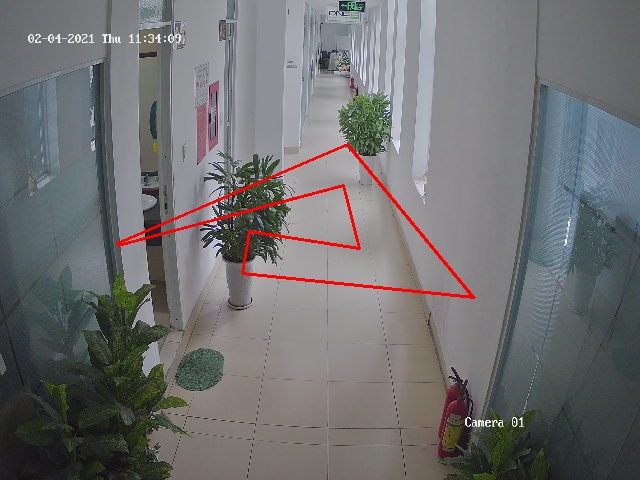
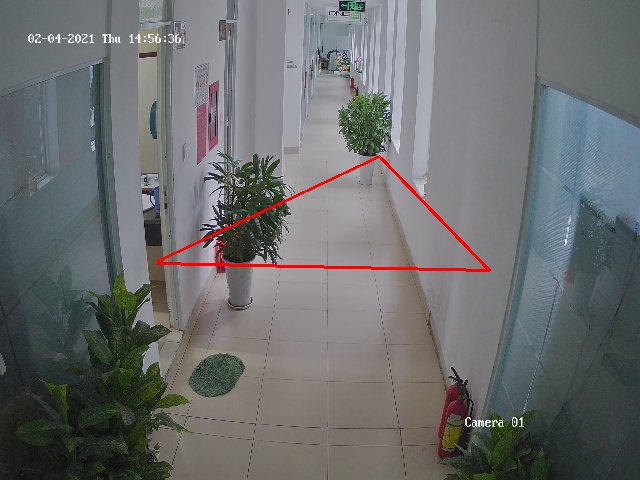
done draw region and draw counting region

diff --git a/draw_region_test.py b/draw_region_test.py
@@ -12,15 +12,38 @@ import cv2
 
 
 # all global variables
-global th, path, light_alarm, sound_alarm, both_alarm, count, height, width, all_point
+global th, \
+    path, \
+    light_alarm, \
+    sound_alarm, \
+    both_alarm, \
+    count, height, \
+    width, \
+    draw_region_points, \
+    default_region_points, \
+    draw_region_flag, \
+    draw_count_flag, \
+    default_counting_points, \
+    draw_counting_points
 
-# config
+# variables
 path = None
 count = 0
 height = 480
 width = 640
-all_point = []
+draw_region_points = []
+extra_pixels = 5  # for default points
+default_region_points = [
+    [(0+extra_pixels, 0+extra_pixels), (width-extra_pixels, 0+extra_pixels)],
+    [(width-extra_pixels, 0+extra_pixels), (width-extra_pixels, height-extra_pixels)],
+    [(width-extra_pixels, height-extra_pixels), (0+extra_pixels, height-extra_pixels)],
+    [(0+extra_pixels, height-extra_pixels), (0+extra_pixels, 0+extra_pixels)]
+]
+draw_region_flag = False
 
+draw_counting_points = []
+default_counting_points = [[(0, int(height/2)), (width, int(height/2))]]
+draw_count_flag = False
 
 class Thread(QtCore.QThread):
     changePixmap = QtCore.pyqtSignal(QtGui.QImage)
@@ -30,16 +53,39 @@ class Thread(QtCore.QThread):
         self._go = None
 
     def run(self):
-        global count, height, width, all_point
+        global count, \
+            height, \
+            width, \
+            draw_region_points, \
+            default_region_points, \
+            draw_region_flag, \
+            default_counting_points, \
+            draw_count_flag, \
+            draw_counting_points
         cap = cv2.VideoCapture(path)
         self._go = True
         while self._go:
             ret, frame = cap.read()
             if ret:
                 frame = cv2.resize(frame, (width, height))
+
+                # condition to draw region
+                if not draw_region_flag:
+                    final_region_points = default_region_points
+                else:
+                    final_region_points = draw_region_points
                 # draw region
-                for i, point in enumerate(all_point):
+                for i, point in enumerate(final_region_points):
                     cv2.line(frame, point[0], point[1], (0, 0, 255), 2)
+
+                # condition to draw counting region
+                if not draw_count_flag:
+                    final_counting_points = default_counting_points
+                else:
+                    final_counting_points = draw_counting_points
+                # draw counting region
+                for i, point in enumerate(final_counting_points):
+                    cv2.line(frame, point[0], point[1], (0, 255, 255), 2)
 
                 rgbImage = cv2.cvtColor(frame, cv2.COLOR_BGR2RGB)
                 h, w, ch = rgbImage.shape
@@ -51,16 +97,24 @@ class Thread(QtCore.QThread):
                 check_input_frame()
                 time.sleep(0.5)
 
+
     def stop_thread(self):
-        global path
+        global path, \
+            draw_region_flag, \
+            default_region_points, \
+            default_counting_points, \
+            draw_count_flag
         self._go = False
         path = None
+        draw_region_flag = False
+        draw_count_flag = False
+        default_counting_points = []
+        default_region_points = []
 
 
 def close_window():
     th.stop_thread()
     time.sleep(1)
-    # exit()
 
 
 def camera_source_alarm():
@@ -110,43 +164,74 @@ def mouse_callback(event, x, y, flags, param):
         mouse_down = False
 
 
-def shape_selection(event, x, y, flags, param):
-    global ref_point, crop
+def shape_selection_for_region(event, x, y, flags, param):
+    global ref_point, draw_region_points
     if event == cv2.EVENT_LBUTTONDOWN:
         ref_point = [(x, y)]
     elif event == cv2.EVENT_LBUTTONUP:
 
         ref_point.append((x, y))
-        all_point.append(ref_point)
+        draw_region_points.append(ref_point)
         cv2.line(image, ref_point[0], ref_point[1], (0, 0, 255), 2)
-        cv2.imshow("image", image)
+        cv2.imshow("Draw ROI", image)
 
 
-def draw():
-    global path, width, height, all_point, image
+def shape_selection_for_counting(event, x, y, flags, param):
+    global ref_point_c, draw_counting_points
+    if event == cv2.EVENT_LBUTTONDOWN:
+        ref_point_c = [(x, y)]
+    elif event == cv2.EVENT_LBUTTONUP:
+
+        ref_point_c.append((x, y))
+        draw_counting_points.append(ref_point_c)
+        cv2.line(image, ref_point_c[0], ref_point_c[1], (0, 255, 255), 2)
+        cv2.imshow("Draw Counting Region", image)
+
+
+def draw_region():
+    global path, width, height, draw_region_points, image, draw_region_flag
+    draw_region_flag = True
     # read and write original image
     cap = cv2.VideoCapture(path)
     ret, frame = cap.read()
     frame = cv2.resize(frame, (width, height))
     if ret:
         cv2.imwrite("original_image.jpg", frame)
-    # draw on original image and write when done
-    image = cv2.imread("original_image.jpg")
-    clone = image.copy()
-    cv2.namedWindow("image")
-    cv2.setMouseCallback("image", shape_selection)
-    while True:
-        cv2.imshow("image", image)
-        key = cv2.waitKey(1) & 0xFF
-        if key == ord("r"):
-            image = clone.copy()
-            all_point = []
-        elif key == ord("q"):
-            break
-    cv2.imwrite('draw_image.jpg', image)
+        # draw on original image and write when done
+        image = cv2.imread("original_image.jpg")
+        clone = image.copy()
+        cv2.namedWindow("Draw ROI")
+        cv2.setMouseCallback("Draw ROI", shape_selection_for_region)
+        while True:
+            cv2.imshow("Draw ROI", image)
+            key = cv2.waitKey(1)
+            if key == 32:
+                image = clone.copy()
+                draw_region_points = []
+            elif key == 13:
+                break
+    cv2.imwrite('draw_region_image.jpg', image)
+    cap.release()
     cv2.destroyAllWindows()
 
 
+def draw_counting():
+    global path, width, height, draw_counting_points, image, draw_count_flag
+    draw_count_flag = True
+    image = cv2.imread("draw_region_image.jpg")
+    clone = image.copy()
+    cv2.namedWindow("Draw Counting Region")
+    cv2.setMouseCallback("Draw Counting Region", shape_selection_for_counting)
+    while True:
+        cv2.imshow("Draw Counting Region", image)
+        key = cv2.waitKey(1)
+        if key == 32:
+            image = clone.copy()
+            draw_counting_points = []
+        elif key == 13:
+            break
+    cv2.imwrite('draw_counting_image.jpg', image)
+    cv2.destroyAllWindows()
 
 
 def restore(settings):
@@ -206,11 +291,17 @@ class Ui_MainWindow(object):
         self.input.setGeometry(QtCore.QRect(30, 510, 541, 25))
         self.input.setObjectName("input")
 
+        # draw region
+        self.draw_region_button = QtWidgets.QPushButton(self.centralwidget)
+        self.draw_region_button.setGeometry(QtCore.QRect(730, 230, 89, 25))
+        self.draw_region_button.setObjectName("draw_region_button")
+        self.draw_region_button.clicked.connect(self.region)
 
-        self.drawbutton = QtWidgets.QPushButton(self.centralwidget)
-        self.drawbutton.setGeometry(QtCore.QRect(730, 280, 89, 25))
-        self.drawbutton.setObjectName("drawbutton")
-        self.drawbutton.clicked.connect(draw)
+        # draw counting line
+        self.draw_count_button = QtWidgets.QPushButton(self.centralwidget)
+        self.draw_count_button.setGeometry(QtCore.QRect(730, 280, 89, 25))
+        self.draw_count_button.setObjectName("draw_count_button")
+        self.draw_count_button.clicked.connect(draw_counting)
 
 
         self.start_button = QtWidgets.QPushButton(self.centralwidget)
@@ -243,6 +334,12 @@ class Ui_MainWindow(object):
         self.retranslateUi(MainWindow)
         QtCore.QMetaObject.connectSlotsByName(MainWindow)
 
+    def region(self):
+        global path
+        if path is None or len(path) == 0:
+            camera_source_alarm()
+        else:
+            draw_region()
 
     def video(self):
         global path, count
@@ -272,7 +369,8 @@ class Ui_MainWindow(object):
         self.start_button.setText(_translate("MainWindow", "Start"))
         self.stopbutton.setText(_translate("MainWindow", "Stop"))
         self.applybutton.setText(_translate("MainWindow", "Apply"))
-        self.drawbutton.setText(_translate("MainWindow", "Draw"))
+        self.draw_region_button.setText(_translate("MainWindow", "Draw ROI"))
+        self.draw_count_button.setText(_translate("MainWindow", "Draw Count"))
 
 
 class MainWindow(QtWidgets.QMainWindow, Ui_MainWindow):

diff --git a/demo.py b/demo.py
@@ -128,7 +128,7 @@ class Ui_MainWindow(object):
 
         # start button
         self.startbutton = QtWidgets.QPushButton(self.centralwidget)
-        self.startbutton.setGeometry(QtCore.QRect(710, 470, 141, 51))
+        self.startbutton.setGeometry(QtCore.QRect(670, 470, 100, 50))
         palette = QtGui.QPalette()
         brush = QtGui.QBrush(QtGui.QColor(0, 0, 0))
         brush.setStyle(QtCore.Qt.SolidPattern)
@@ -269,9 +269,21 @@ class Ui_MainWindow(object):
         self.startbutton.setObjectName("startbutton")
         self.startbutton.clicked.connect(self.video)
 
+        # draw ROI button
+        self.drawregionbutton = QtWidgets.QPushButton(self.centralwidget)
+        self.drawregionbutton.setGeometry(QtCore.QRect(790, 470, 100, 50))
+        self.drawregionbutton.setPalette(palette)
+        self.drawregionbutton.setObjectName("drawregionbutton")
+
+        # draw couting line button
+        self.drawcountingbutton = QtWidgets.QPushButton(self.centralwidget)
+        self.drawcountingbutton.setGeometry(QtCore.QRect(790, 540, 100, 50))
+        self.drawcountingbutton.setPalette(palette)
+        self.drawcountingbutton.setObjectName("drawcountingbutton")
+
         # stop button
         self.stopbutton = QtWidgets.QPushButton(self.centralwidget)
-        self.stopbutton.setGeometry(QtCore.QRect(710, 540, 141, 51))
+        self.stopbutton.setGeometry(QtCore.QRect(670, 540, 100, 50))
         palette = QtGui.QPalette()
         brush = QtGui.QBrush(QtGui.QColor(0, 0, 0))
         brush.setStyle(QtCore.Qt.SolidPattern)
@@ -411,6 +423,7 @@ class Ui_MainWindow(object):
         self.stopbutton.setPalette(palette)
         self.stopbutton.setObjectName("stopbutton")
         self.stopbutton.clicked.connect(close_window)
+
 
         # display video
         self.display_video = QtWidgets.QLabel(self.centralwidget)
@@ -876,6 +889,8 @@ class Ui_MainWindow(object):
         MainWindow.setWindowTitle(_translate("MainWindow", "GreenGlobal - GreenLabs - Face-Mask Recognition APP"))
         self.startbutton.setText(_translate("MainWindow", "START"))
         self.stopbutton.setText(_translate("MainWindow", "STOP"))
+        self.drawregionbutton.setText(_translate("MainWindow", "DRAW ROI"))
+        self.drawcountingbutton.setText(_translate("MainWindow", "DRAW COUNT"))
         self.display_video.setText(_translate("MainWindow", "Video"))
         self.group_alarm_option.setTitle(_translate("MainWindow", "Alarm Option"))
         self.light_radio_button.setText(_translate("MainWindow", "Light"))
